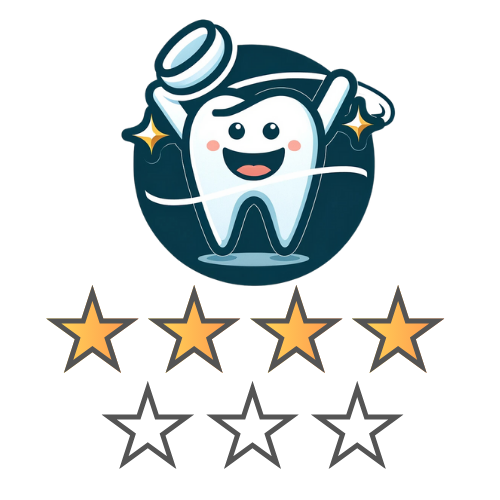
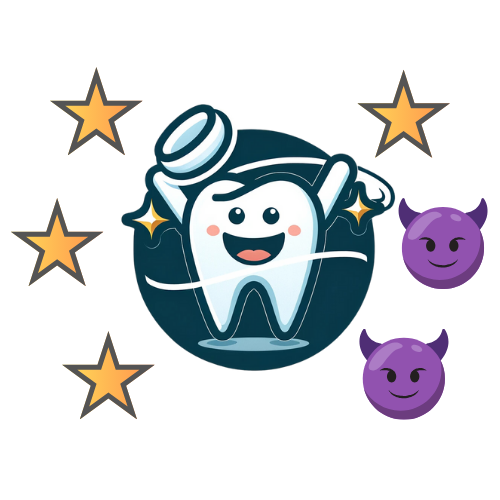
feat: フロス忘れリマインド通知用の画像を作成し、画像メッセージを追加する

diff --git a/app/jobs/floss_reminder_job.rb b/app/jobs/floss_reminder_job.rb
@@ -16,11 +16,17 @@ class FlossReminderJob < ApplicationJob
   def send_reminder(line_user_id)
     client = LineBotClient.client
 
-    message = {
+    text_message = {
       type: 'text',
       text: "体がかゆくなってきちゃった。\nフロスできれいにしてくれるかな？"
     }
 
-    client.push_message(line_user_id, message)
+    image_message = {
+      type: 'image',
+      originalContentUrl: 'https://floss-buddy-message.s3.ap-northeast-1.amazonaws.com/achievement_images/quitter.png',
+      previewImageUrl: 'https://floss-buddy-message.s3.ap-northeast-1.amazonaws.com/achievement_images/quitter.png'
+    }
+
+    client.push_message(line_user_id, [text_message, image_message])
   end
 end
